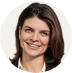
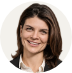
Give floating Ludmila portrait a little more space

diff --git a/prodazha_sobstvennikam_spb/index.html b/prodazha_sobstvennikam_spb/index.html
@@ -4,7 +4,7 @@
 <link rel="stylesheet" href="./hero.css?v=002bf2d2c75f">
 <link rel="stylesheet" href="../exact-2026-10-21/home-owner-form.css?v=5312ef62e68f">
 <link rel="stylesheet" href="../shared/expert-dialog.css?v=59427a1afb5c">
-<link rel="stylesheet" href="spb.css?v=ac1f524ee82e"><link rel="stylesheet" href="spb-newsletter.css?v=689337a7ebfd"></head><body data-resort-cta="1" data-page-kit="1.0.2" class="barnes-page-kit barnes-media-reference owner-sale-reference-ui barnes-header-template barnes-media-header" id="ui-kit-page"><!--teleport start anchor--><!----><!--teleport anchor--><!--teleport start anchor--><!----><!--teleport anchor--><!--teleport start anchor--><!----><!--teleport anchor--><!--teleport start anchor--><!----><!--teleport anchor--><!--teleport start anchor--><!----><!--teleport anchor--><!--teleport start anchor--><!----><!--teleport anchor--><div id="__nuxt"><div><div class="layout" data-v-47bd53e9=""><div class="layout__header" data-v-47bd53e9=""><header class="site-header site-header--no-nav" data-v-47bd53e9="" data-v-7912d681=""><div class="site-header__inner base-container" data-v-7912d681=""><div class="site-header__top" data-v-7912d681=""><div class="site-header__left" data-v-7912d681=""><button type="button" class="site-header__icon-btn" aria-label="Открыть меню" data-v-7912d681=""><span class="ui-icon ui-icon-current site-header__icon" data-v-7912d681="" data-v-8bd2f545=""><svg xmlns="http://www.w3.org/2000/svg" width="24" height="24" viewBox="0 0 24 24" fill="none" stroke="currentColor" stroke-width="1.5" stroke-linecap="round">
+<link rel="stylesheet" href="spb.css?v=ca3f5f42fceb"><link rel="stylesheet" href="spb-newsletter.css?v=689337a7ebfd"></head><body data-resort-cta="1" data-page-kit="1.0.2" class="barnes-page-kit barnes-media-reference owner-sale-reference-ui barnes-header-template barnes-media-header" id="ui-kit-page"><!--teleport start anchor--><!----><!--teleport anchor--><!--teleport start anchor--><!----><!--teleport anchor--><!--teleport start anchor--><!----><!--teleport anchor--><!--teleport start anchor--><!----><!--teleport anchor--><!--teleport start anchor--><!----><!--teleport anchor--><!--teleport start anchor--><!----><!--teleport anchor--><div id="__nuxt"><div><div class="layout" data-v-47bd53e9=""><div class="layout__header" data-v-47bd53e9=""><header class="site-header site-header--no-nav" data-v-47bd53e9="" data-v-7912d681=""><div class="site-header__inner base-container" data-v-7912d681=""><div class="site-header__top" data-v-7912d681=""><div class="site-header__left" data-v-7912d681=""><button type="button" class="site-header__icon-btn" aria-label="Открыть меню" data-v-7912d681=""><span class="ui-icon ui-icon-current site-header__icon" data-v-7912d681="" data-v-8bd2f545=""><svg xmlns="http://www.w3.org/2000/svg" width="24" height="24" viewBox="0 0 24 24" fill="none" stroke="currentColor" stroke-width="1.5" stroke-linecap="round">
   <path d="M5 7h14"></path>
   <path d="M5 12h14"></path>
   <path d="M5 17h14"></path>

diff --git a/prodazha_sobstvennikam_spb/spb.css b/prodazha_sobstvennikam_spb/spb.css
@@ -6,7 +6,7 @@
 .spb-hero-location{white-space:nowrap}
 .home-owner-form__hero-image{object-fit:contain;object-position:center bottom}
 /* A little more room around Ludmila in the floating expert circle. */
-body#ui-kit-page .floating-expert__avatar img{width:150%!important;left:-25%!important;top:-1%!important}
+body#ui-kit-page .floating-expert__avatar img{width:140%!important;left:-20%!important;top:0!important}
 .catalog-consultation [data-preview-status]{font-size:16px;line-height:1.5}
 @media(max-width:540px){
  .owner-sale-reference-ui .owner-sale-hero .owner-sale-hero__image{object-position:88% center}

diff --git a/prodazha_sobstvennikam_spb/verification/regional/README.md b/prodazha_sobstvennikam_spb/verification/regional/README.md
@@ -10,6 +10,6 @@
 
 [Цветной вариант на живой странице](appearance-live.json) проверен на 390/1440 px: загружены все цветные портреты, фильтры CTA и окна эксперта — none. Полная повторная проверка живой страницы на шести ширинах также прошла.
 
-Плавающий портрет немного отдалён: 150% вместо 170%, кружки 64/72 px сохранены. Проверено на 390/1440 px: [замеры](avatar.json), [телефон](avatar-390.png), [десктоп](avatar-1440.png).
+Плавающий портрет немного отдалён: 140% вместо 170%, кружки 64/72 px сохранены. Проверено на 390/1440 px: [замеры](avatar.json), [телефон](avatar-390.png), [десктоп](avatar-1440.png).
 
 [Живая публикация](avatar-live.json): отдаление портрета подтверждено на 390/1440 px после успешной выкладки.
